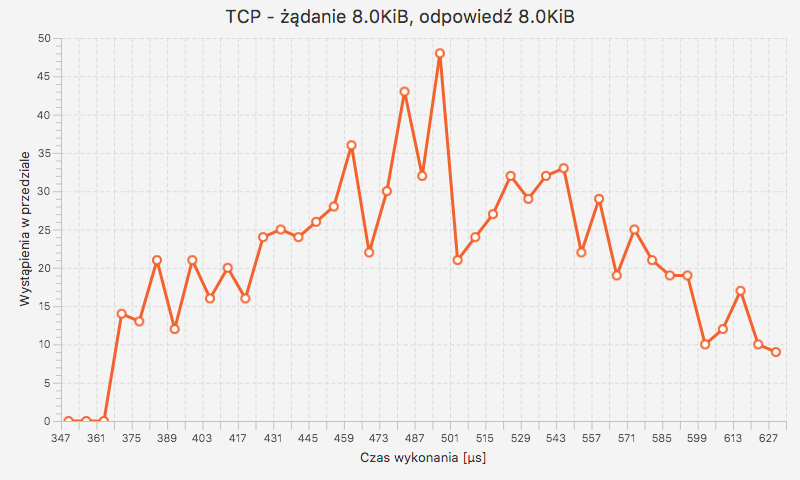
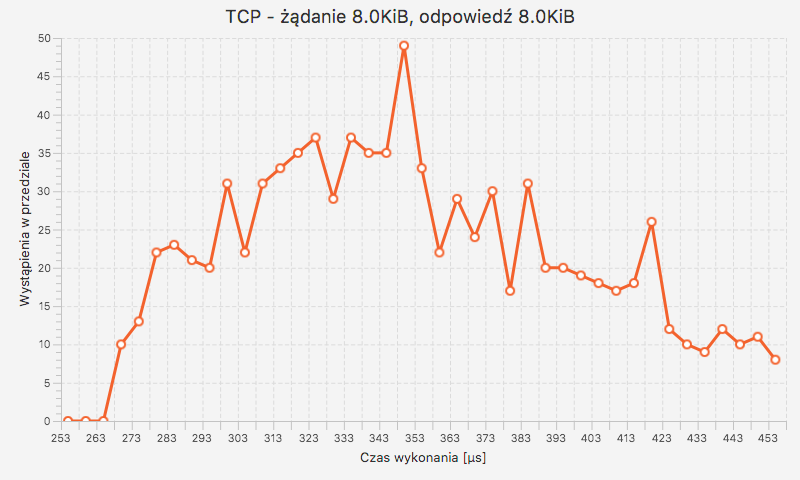
[DOC] Pgfplots charts with simple data generation

diff --git a/doc/implementacja.tex b/doc/implementacja.tex
@@ -39,13 +39,16 @@ Przed właściwym testowaniem zawsze następowały uruchomienia niepomiarowe, ab
 
 Charakter testów był czysto naukowy. Dane przesyłane w zapytaniach to losowe bajty oraz rozmiar oczekiwanej odpowiedzi, aby dynamicznie sterować wielkościami komunikatów - bez zmiany konfiguracji serwerów oczekujących na klienta.
 
-Odpowiedź generowana po stronie implementowanej w C/C++ została ujednolicona, tak aby nie fałszować różnic między metodami transportu.
+Odpowiedź generowana po stronie implementowanej w C/C++ została uproszczona, aby uniknąć narzutu związanego z jej tworzeniem. W pierwszej wersji aplikacji została użyta prosta pętla:
 
 \begin{lstlisting}[caption={Fragment kodu wykorzystywanego w każdej metodzie komunikacji do generowania odpowiedzi},captionpos=b]
     for (int i = 0; i < responseSize; i++) {
         response[i] = (i % 26) + 65;
     }
 \end{lstlisting}
+
+Czas jej wykonania stanowił nawet 80\% całej komunikacji. Aby nie fałszować różnic między metodami transportu, wykorzystane są losowe dane znajdujące się aktualnie w pamięci (w zaalokowanym miejscu).
+
 
 \begin{figure}[h!]
     \centering
@@ -180,7 +183,8 @@ Java Native Interface wymaga stworzenia pomostu między maszyną wirtualną Jav
 Implementacja w C otrzymuje żądanie i oczekiwaną długość odpowiedzi, jednak są to struktury typów \texttt{jbyteArray} i \texttt{jint}, więc przed użyciem wymagają odpowiedniego mapowania. Podobnie wygląda generowanie danych zwrotnych - oczekiwany typ to \texttt{jbyteArray}.
 
 \begin{lstlisting}[caption={Natywna implementacja w C.},captionpos=b]
-    JNIEXPORT jbyteArray JNICALL Java_pl_kumon_transfertester_tester_jni_JniExecutor_requestJni(
+    JNIEXPORT jbyteArray JNICALL 
+    Java_pl_kumon_transfertester_tester_jni_JniExecutor_requestJni(
     JNIEnv *env, jobject thisObj, jbyteArray requestBytes, jint responseSize) {
 
         readRequest(env, &requestBytes);
@@ -196,22 +200,18 @@ Implementacja w C otrzymuje żądanie i oczekiwaną długość odpowiedzi, jedn
         (*env)->ReleaseByteArrayElements(env, *requestBytes, buffer, JNI_ABORT);
     }
 
-    jbyte* prepareResponseRandomBytes(JNIEnv *env, jbyteArray *response, jint responseSize) {
-        int i;
-        jbyte *bytes = (*env)->GetByteArrayElements(env, *response, 0);
-        for (i = 0; i < responseSize; i++) {
-            bytes[i] = (i % 26) + 65;
-        }
-        return bytes;
+    jbyte* prepareResponseRandomBytes(JNIEnv *env, jbyteArray *response,
+                                      jint responseSize) {
+        return (*env)->GetByteArrayElements(env, *response, 0);
     }
 \end{lstlisting}
 
 
 \section{Implementacja bez komunikacji}
 
-Ciekawy do sprawdzenia jest sam narzut platformy testowej, który nie wynika z generowania odpowiedzi. Aby tego dokonać, stworzony został test działający jedynie w pamięci wirtualnej maszyny Javy, który nie komunikuje się z niczym na zewnątrz.
+Ciekawy do sprawdzenia jest sam narzut platformy testowej, który nie wynika z warstwy transportowej. Aby tego dokonać, stworzony został test działający jedynie w pamięci wirtualnej maszyny Javy, która nie komunikuje się z niczym na zewnątrz.
 
-Uniknięcie optymalizacji (aby cała pętla nie została pominięta) zostało osiągnięte przez kontrolę rozmiaru wygenerowanych danych.
+Uniknięcie optymalizacji (aby cała alokacja tablicy nie została pominięta) zostało osiągnięte przez kontrolę rozmiaru danych.
 
 \begin{lstlisting}[caption={Test sprawdzający narzut samej platformy.},captionpos=b]
     protected void execute(TestProps testProps) throws TesterException {
@@ -220,10 +220,6 @@ Uniknięcie optymalizacji (aby cała pętla nie została pominięta) zostało os
     }
 
     private byte[] getMockResponse(int responseSize) {
-        byte[] response = new byte[responseSize];
-        for (int i = 0; i < responseSize; i++) {
-            response[i] = (byte) ((i % 26) + 65);
-        }
-        return response;
+        return new byte[responseSize];
     }
 \end{lstlisting}

diff --git a/doc/prezentacja_wynikow.tex b/doc/prezentacja_wynikow.tex
@@ -38,7 +38,7 @@ Każda konfiguracja testowa wykonana została co najmniej 1000-krotnie. Z otrzym
 
 \section{Porównanie wyników}
 
-Najważniejszym zestawieniem jest porównanie czasów komunikacji dla różnych kanałów transmisji danych, przy takim samym rozmiarze przesyłanych danych. Poniżej zaprezentowane zostaną przykładowe wykresy. Z niektórych usunięte zostały najwolniejsze metody, aby dostrzec różnicę między najszybszymi. Zaprezentowane zostaną mediany oraz odchylenia standardowe. Wartości dla \textit{Mock} oznaczają implementację, która nie transmituje danych, tylko od razu je generuje.
+Najważniejszym zestawieniem jest porównanie czasów komunikacji dla różnych kanałów transmisji danych, przy takim samym rozmiarze przesyłanych danych. Poniżej zaprezentowane zostaną przykładowe wykresy. Zaprezentowane zostaną średnie oraz odchylenia standardowe. Wartości dla \textit{Mock} oznaczają implementację, która nie transmituje danych, tylko od razu je zwraca.
 
 
 \begin{figure}[H]

diff --git a/doc/praca.tex b/doc/praca.tex
@@ -16,6 +16,7 @@
 \usepackage{amsfonts}
 \usepackage{amsmath}
 \usepackage{amsthm}
+\usepackage{pgfplots}
 
 % --- < bibliografia > ---
 
